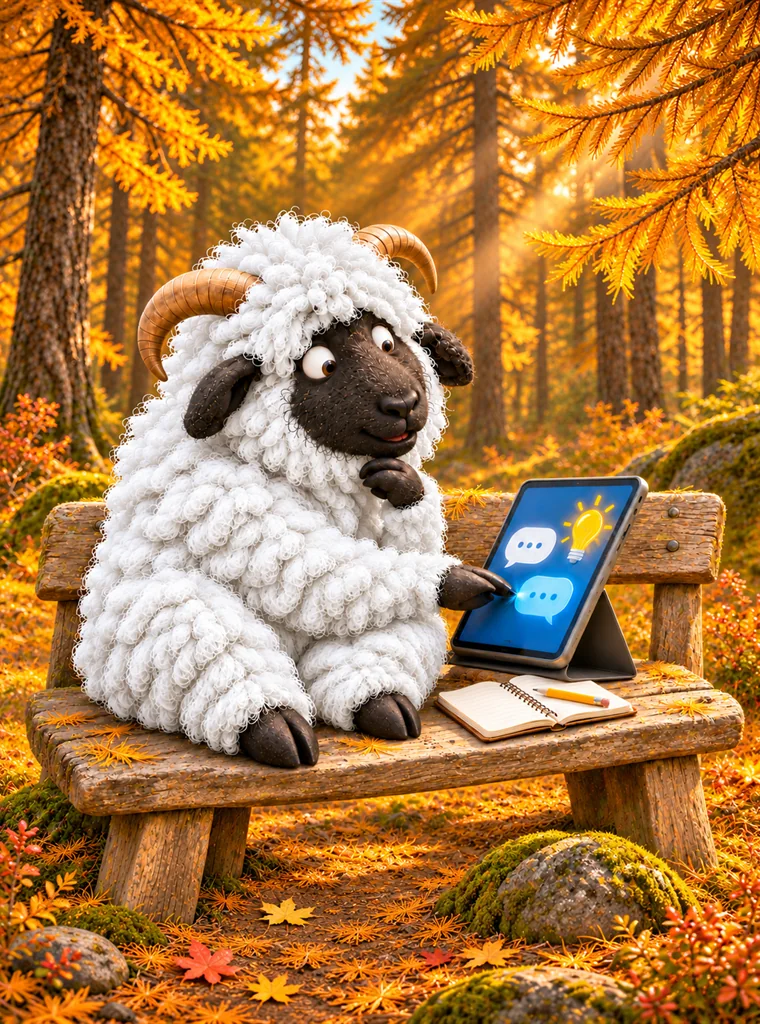
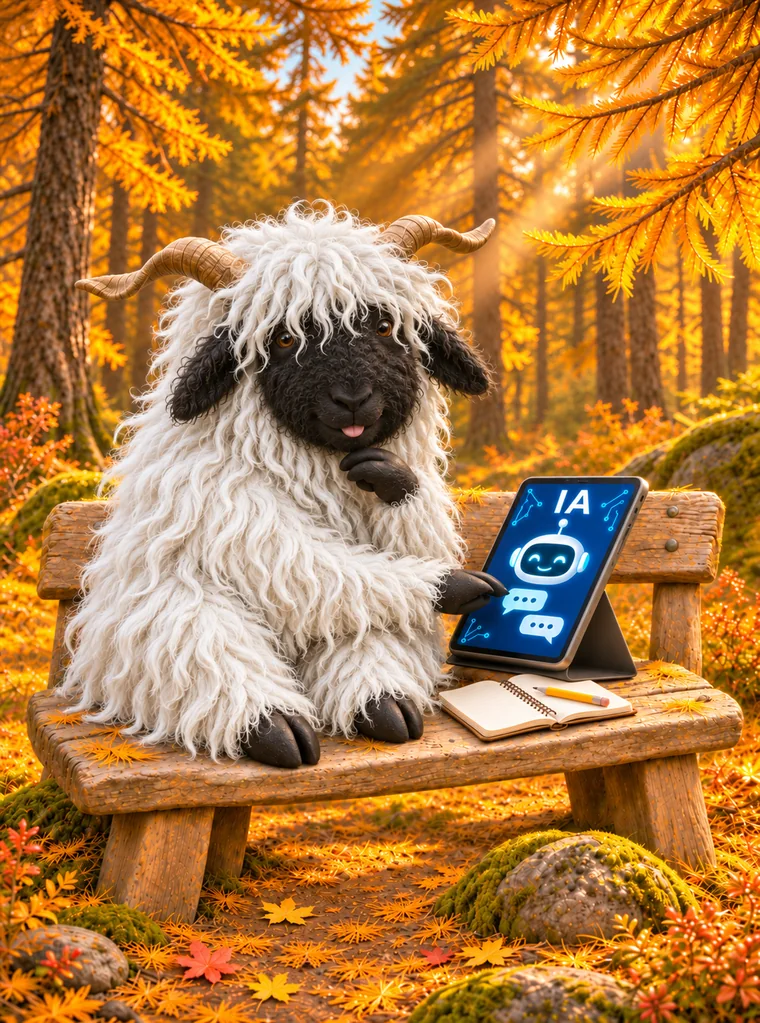
Update sheep image

diff --git a/fr/index.html b/fr/index.html
@@ -97,7 +97,7 @@
     </article>
     <article>
       <div class="trio-figure">
-        <img src="../images/schaf-tablet.webp" width="760" height="1024" alt="Un mouton nez noir, assis sur un banc dans une forêt de mélèzes en automne, tapote d’un air songeur une tablette où s’affichent des bulles de dialogue et une ampoule.">
+        <img src="../images/schaf-tablet.webp" width="760" height="1023" alt="Un mouton nez noir tout ébouriffé, assis sur un banc dans une forêt de mélèzes en automne, tapote d’un air songeur une tablette où s’affichent un petit robot souriant, des bulles de dialogue et les lettres « IA ».">
       </div>
       <div>
         <span class="label">Intelligence artificielle</span>

diff --git a/coming-soon.html b/coming-soon.html
@@ -51,7 +51,7 @@
     </article>
     <article>
       <div class="trio-figure">
-        <img src="images/schaf-tablet.webp" width="760" height="1024" alt="Ein Schwarznasenschaf sitzt auf einer Holzbank im herbstlichen Lärchenwald und tippt nachdenklich auf ein Tablet mit Sprechblasen und einer Glühbirne.">
+        <img src="images/schaf-tablet.webp" width="760" height="1023" alt="Ein zotteliges Schwarznasenschaf sitzt auf einer Holzbank im herbstlichen Lärchenwald und tippt nachdenklich auf ein Tablet, auf dem ein freundlicher KI-Roboter mit Sprechblasen zu sehen ist.">
       </div>
       <h2>KI, eine verstrickte Sache? <span lang="fr">L’IA vous embrouille&#8239;?</span></h2>
     </article>

diff --git a/de/index.html b/de/index.html
@@ -97,7 +97,7 @@
     </article>
     <article>
       <div class="trio-figure">
-        <img src="../images/schaf-tablet.webp" width="760" height="1024" alt="Ein Schwarznasenschaf sitzt auf einer Holzbank im herbstlichen Lärchenwald und tippt nachdenklich auf ein Tablet mit Sprechblasen und einer Glühbirne.">
+        <img src="../images/schaf-tablet.webp" width="760" height="1023" alt="Ein zotteliges Schwarznasenschaf sitzt auf einer Holzbank im herbstlichen Lärchenwald und tippt nachdenklich auf ein Tablet, auf dem ein freundlicher KI-Roboter mit Sprechblasen zu sehen ist.">
       </div>
       <div>
         <span class="label">Künstliche Intelligenz</span>
